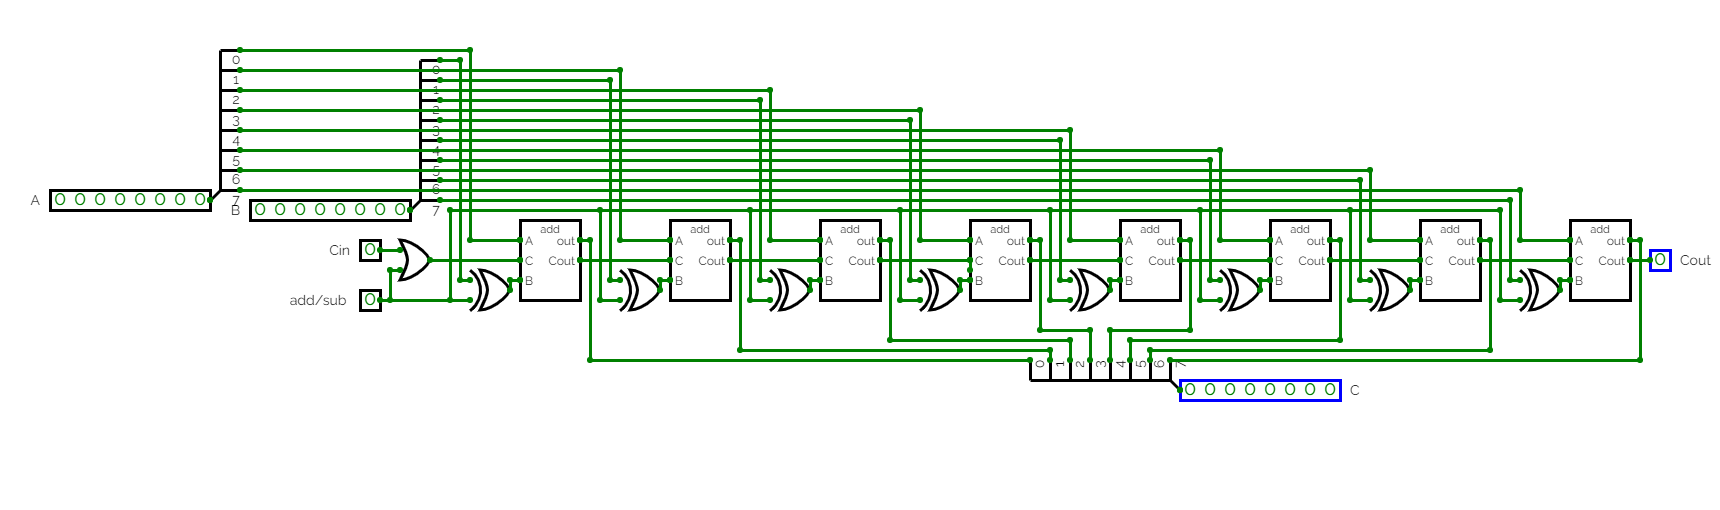
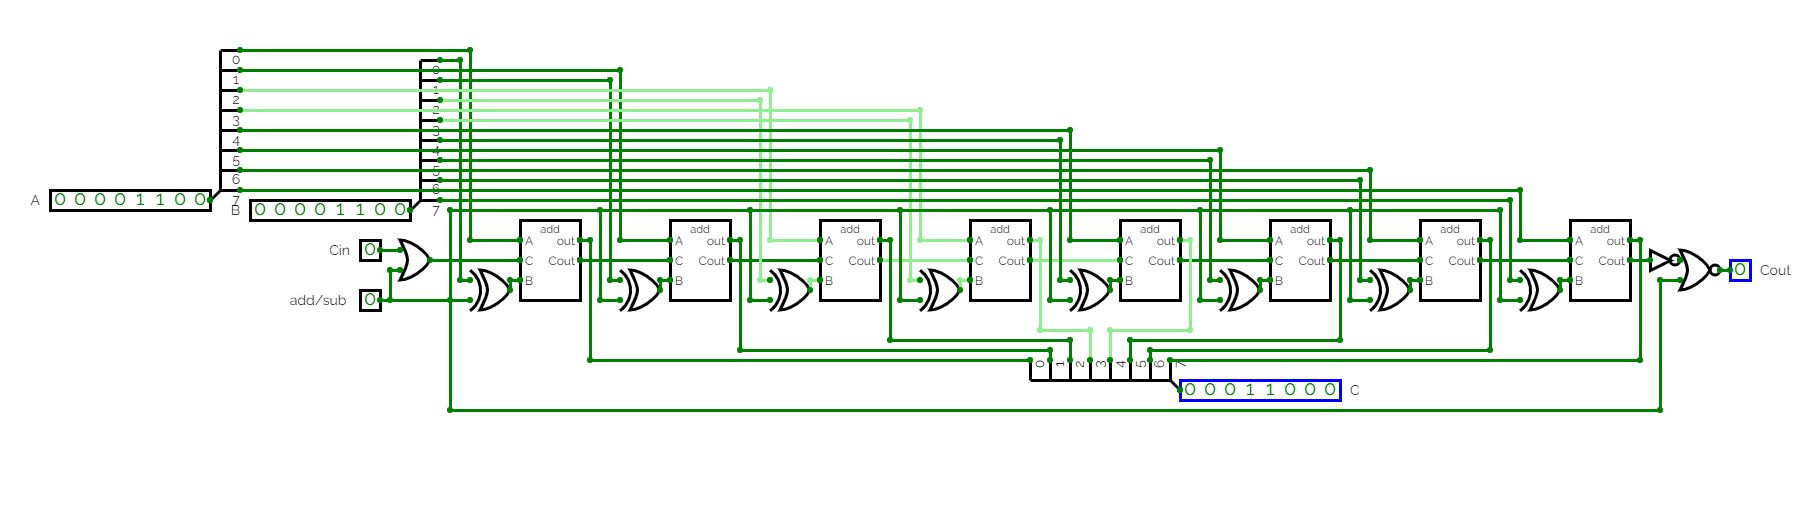
add_sub shema + veriform

diff --git a/veriform/alu/arithm/add_sub.c b/veriform/alu/arithm/add_sub.c
@@ -7,7 +7,9 @@ void veriform_add_sub(unsigned int *results, unsigned int max_int, unsigned int 
 
   operandB = (sub ? ~operandB : operandB) & max_int;
   results[0] = (operandA + operandB + cin) & max_int;
-  results[1] = max_int - operandA < operandB || (max_int - operandA == operandB && cin == 1);
+  results[1] = 0;
+  if (!sub)
+    results[1] = max_int - operandA < operandB || (max_int - operandA == operandB && cin == 1);
 }
 
 /*
